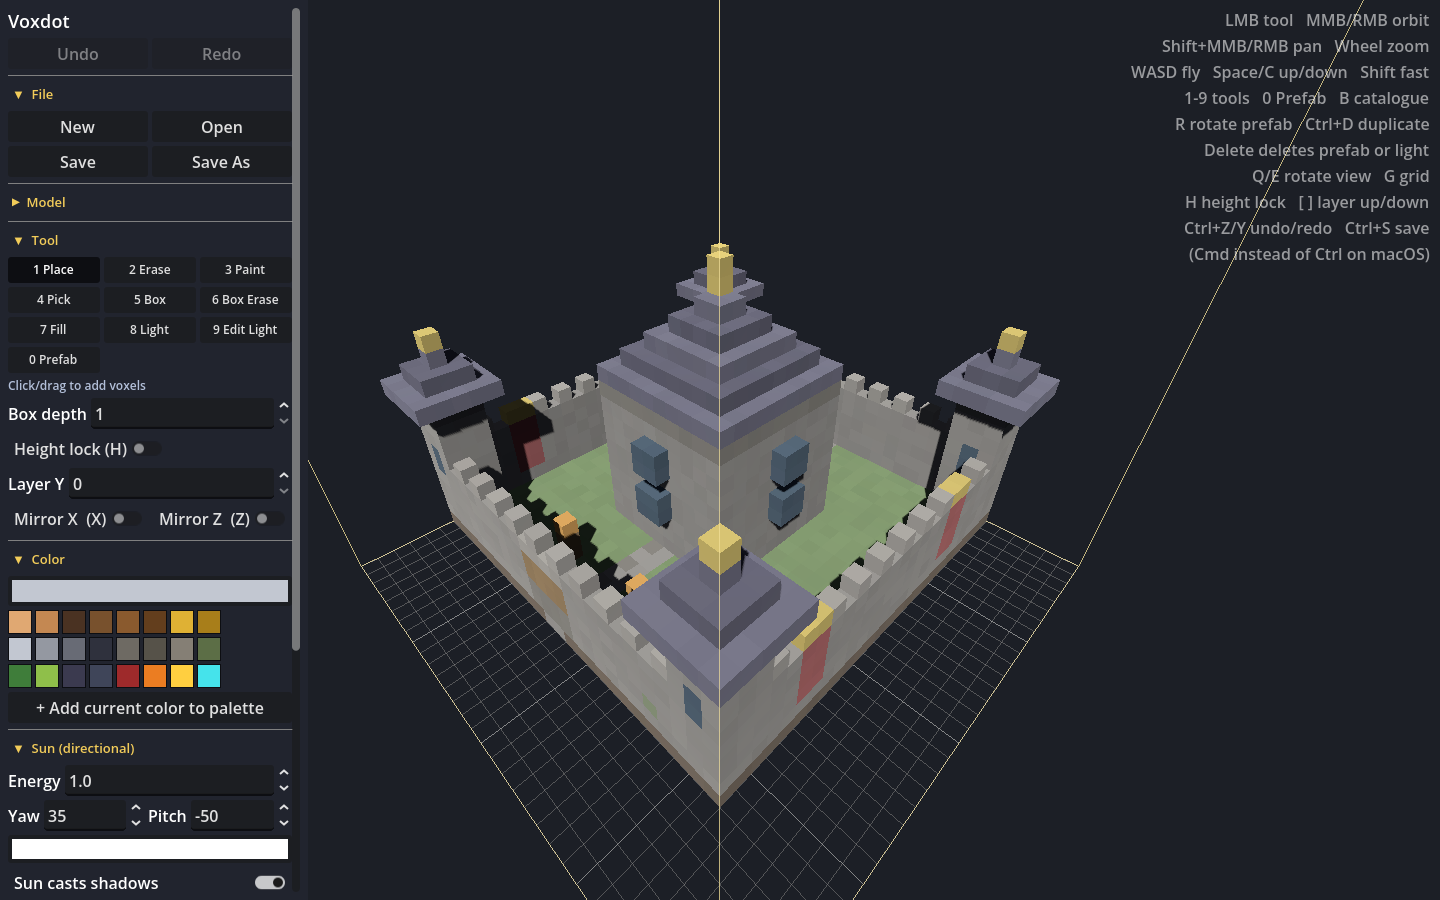
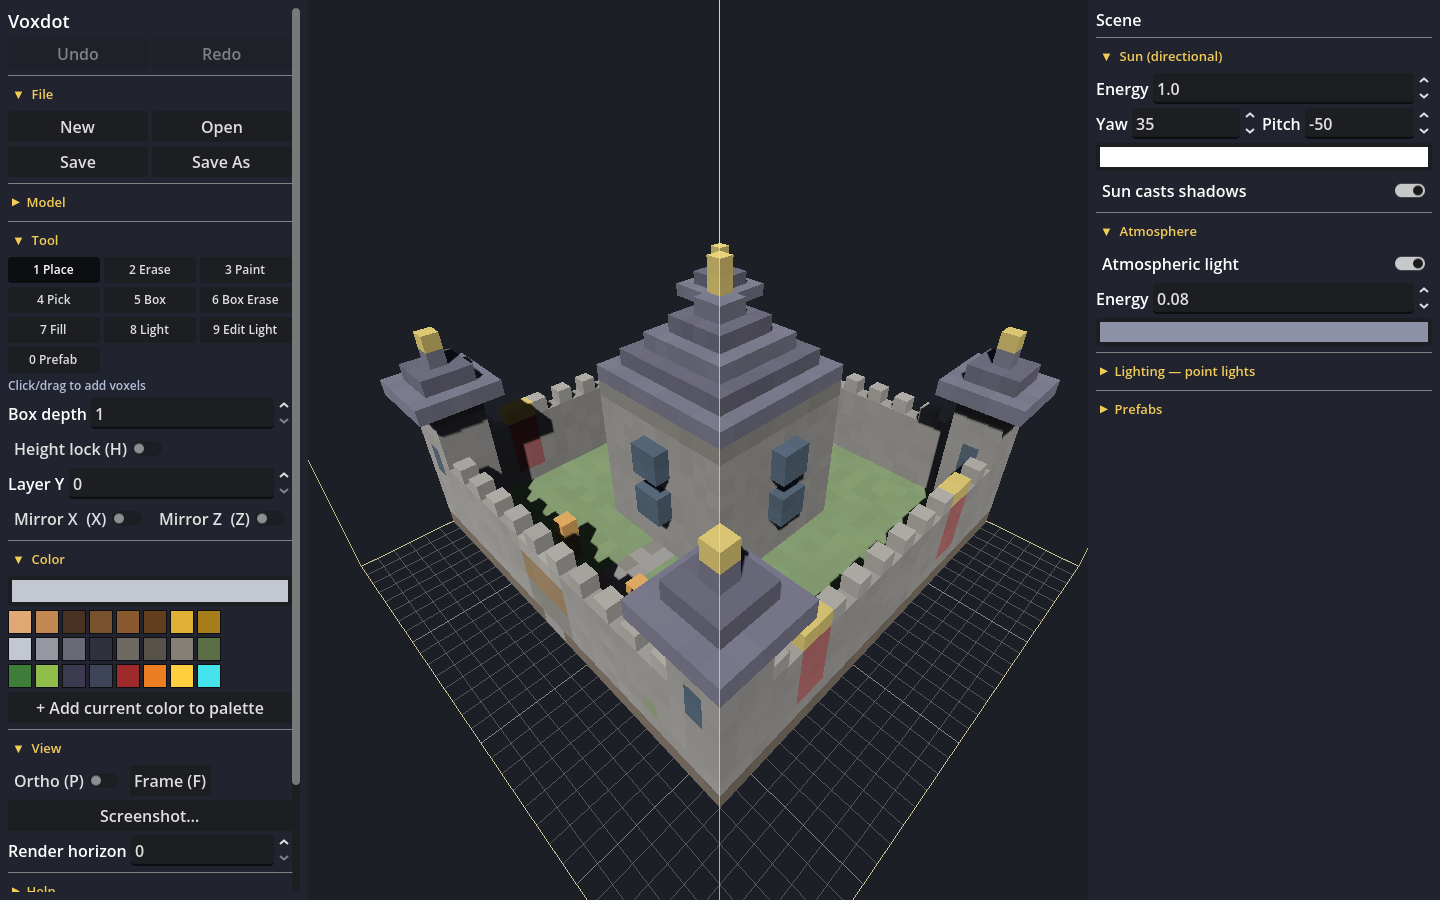
Move scene controls to a right panel and add atmosphere lighting
Split the UI into left editing and right Scene panels: Sun, point lights and Prefabs move right, while keybinding help becomes a collapsible left-panel section. Add saved atmospheric ambient fill controls (enable, energy, color) with dependent controls disabled when off. Scale directional shadow distance with the model bounds so large scenes cast Sun shadows. Update tests, screenshots and docs.

diff --git a/AGENTS.md b/AGENTS.md
@@ -47,10 +47,9 @@ Standalone voxel model editor on **Godot 4.7.2** (system binary `/usr/bin/godot`
      `set_render_horizon(0)` must re-mesh chunks a previous cap dropped, because `_update_horizon_chunks()` returns
      early when unlimited. UI spinbox and MCP both report 0 for "all"; never leak the raw sentinel value out.
      Chunk rebuilds use the `_chunk_cells` index (chunk key -> cells), never a full-grid scan.
-   - Scene mood is one directional sun (energy/yaw/pitch/color/shadows) stored in the model and applied via
-     `_on_meta_changed` → `_apply_environment`; there is no ambient-fill control anymore (a small constant
-     ambient floor of 0.08 stays in `_build_world`). `ambient_energy` remains in the format as a legacy field
-     but nothing reads it.
+   - Scene mood is a directional sun (energy/yaw/pitch/color/shadows) plus an atmospheric ambient fill
+     (`atmosphere_enabled/energy/color`), stored in the model and applied via `_on_meta_changed` →
+     `_apply_environment`. `ambient_energy` remains a legacy field but nothing reads it.
    - Headless input tests: dummy window is 64x64 — set `root.content_scale_mode = DISABLED` and `root.size` *after* the first frames, give
      synthetic motion events a real `relative`, set `Input.use_accumulated_input = false`. Don't click "empty panel space" in tests (it can hit
      the `ColorPickerButton` and open a modal popup); click the title area `Vector2(100, 8)`. Nodes added from a
@@ -62,10 +61,14 @@ Standalone voxel model editor on **Godot 4.7.2** (system binary `/usr/bin/godot`
      focus, so editing any spin box left WASD dead. Only a *left* click released focus, so middle-dragging to orbit
      appeared to break navigation until the next left click. Release focus on every mouse press (and wheel) that reaches
      the viewport, not just LMB.
-   - Side panel: sections come from `_section(parent, title, expanded)` which returns the body `VBoxContainer` to fill
-     (the header is a flat toggle button with a ▼/▶ arrow). File is first, then Model, Tool (tools + mirror), Color,
-     Sun, point lights, View; Model and point lights start collapsed. UI tests that focus a spin box should use a
-     visible one — fields inside collapsed sections are not reliable focus fixtures.
+   - Side panels: `_side_panel(root, name, width, on_right)` builds a scrollable `PanelContainer` anchored to
+     either edge. The left **ToolPanel** holds File, Model, Tool (tools + mirror), Color, View and Help (last);
+     the right **ScenePanel** holds Sun, point lights and Prefabs. Sections come from
+     `_section(parent, title, expanded)` which returns the body `VBoxContainer` to fill (the header is a flat
+     toggle button with a ▼/▶ arrow). Model, point lights, Prefabs and Help start collapsed. Keybinding help
+     lives in the left Help section, not as a viewport overlay. The right panel is 352 px wide because the
+     light position row (three spins) needs ~311 px; narrower widths clip the Delete button. UI tests that
+     focus a spin box should use a visible one — fields inside collapsed sections are not reliable focus fixtures.
    - Resizing bounds is refused if it would drop voxels; undo/redo skips out-of-bounds cells.
 7. **Cross-platform shortcuts**: on macOS, Godot fires shortcuts with `meta_pressed` instead of `ctrl_pressed`. Use
    `k.command_or_control_autoremap` (or check both) so Ctrl works on Windows/Linux and Cmd works on macOS. Ignore
@@ -89,9 +92,9 @@ Standalone voxel model editor on **Godot 4.7.2** (system binary `/usr/bin/godot`
 10. **Lights & scene mood in the model format**: `VoxelModel.lights` packs each light as 10 floats (id, x, y, z,
     r, g, b, energy, range, shadows); positions/ranges are in voxel units and runtime instances scale them by
     `voxel_size`. Undo history entries are namespaced (`{"voxels", "lights"}`) — anything iterating raw undo
-    entries must go through `_is_legacy_history`. Scene mood (`sun_energy`, `ambient_energy`) is saved in the
+    entries must go through `_is_legacy_history`. Scene mood (`sun_*` and `atmosphere_*`) is saved in the
     same `.tres` but is not undoable (like mirror flags); the editor applies it via `_on_meta_changed`, so
-    loads/restores come for free. Godot 4.7 has no `Geometry3D.ray_intersects_sphere` — ray–sphere picking in
+    loads/restores come for free. `ambient_energy` is a legacy field and is not applied. Godot 4.7 has no `Geometry3D.ray_intersects_sphere` — ray–sphere picking in
     `voxel_light_rig.gd` is manual. Light drags lock to the camera-facing plane through the light (same rule as
     voxel strokes), so a drag target off that plane lands at the plane intersection.
 11. **README screenshots**: `tools/make_screenshots.gd` drives the real editor in a `SubViewport` and writes
@@ -146,3 +149,7 @@ Standalone voxel model editor on **Godot 4.7.2** (system binary `/usr/bin/godot`
     contain local voxels, valid prefab cells/lights and point lights; placeholders are excluded, matching
     `resize_bounds()`. `VoxelPrefabComposition.insert_candidate()` must also cache `_instance_bounds` and the
     `ok` status — otherwise `prefab_bounds()` is empty for freshly placed instances until a transform or reload.
+20. **Sun shadows on large models**: `DirectionalLight3D.directional_shadow_max_distance` defaults to 100 m,
+    so a 512³/1024³ model viewed from farther away shows no cast shadows even with `shadow_enabled = true`.
+    `_apply_environment()` sets it to `min(max(100, bounds.length() * 1.5), camera.far)`; otherwise the
+    "Sun casts shadows" toggle appears broken on the pagoda-scale examples.

diff --git a/README.md b/README.md
@@ -83,20 +83,23 @@ Tests: `VOXDOT_MCP_PORT=7851 godot --headless --path . -s tests/mcp_server_test.
 Box depth extrudes Box / Box Erase. Model size (up to 1024 per axis) and real-world voxel size are in the panel.
 Shrinking the size is refused if voxels would be cut off. **Fit bounds to content** shrinks or grows W/H/D to the
 furthest occupied cell (the origin stays at 0). Files default to `~/Documents/Voxdot`.
-The panel sections (File, Model, Tool, Color, Sun, Lighting, Prefabs, View) are collapsible — click a section
-header to fold it away; Model, point lights and Prefabs start folded so the common controls fit without scrolling.
+The panel sections are collapsible — click a section header to fold it away. File, Model, Tool, Color, View and
+Help live in the left panel; Sun, Atmosphere, point lights and Prefabs live in the right **Scene** panel. Model,
+point lights, Prefabs and Help start folded so the common controls fit without scrolling.
 
 ## Lighting
 
 Every model carries its own scene mood, so a lit scene reopens exactly as you left it:
 
 - **Sun** (Sun section) — one directional light with energy, yaw/pitch, color, and a shadow toggle.
+- **Atmosphere** (Atmosphere section) — ambient fill light with an enable toggle, energy and color. It lifts
+  unlit faces without affecting the directional sun; the color/energy are saved with the model.
 - **Point lights** (Lighting section, tools `8` Light / `9` Edit Light) — up to 32 lights with position, color,
   energy, radius, and shadows. Drag a light's handle to move it, `Delete` removes the selected one, `<`/`>` cycle.
 
-Both live in the `.tres` (`VoxelModel.lights` plus the `sun_*` fields) and are available over MCP
-(`add_light`, `update_light`, `set_sun`, …). Point-light edits are undoable; sun settings are scene-wide and save
-with the model like the mirror flags.
+All three live in the `.tres` (`VoxelModel.lights` plus the `sun_*` and `atmosphere_*` fields) and are available
+over MCP (`add_light`, `update_light`, `set_sun`, …). Point-light edits are undoable; sun and atmosphere settings
+are scene-wide and save with the model like the mirror flags.
 
 **Render horizon** (View section) caps how much of a big model gets meshed: only chunks within that horizontal
 distance of the camera are rendered, and it follows the camera as you fly. Raising it reveals *farther* parts;
